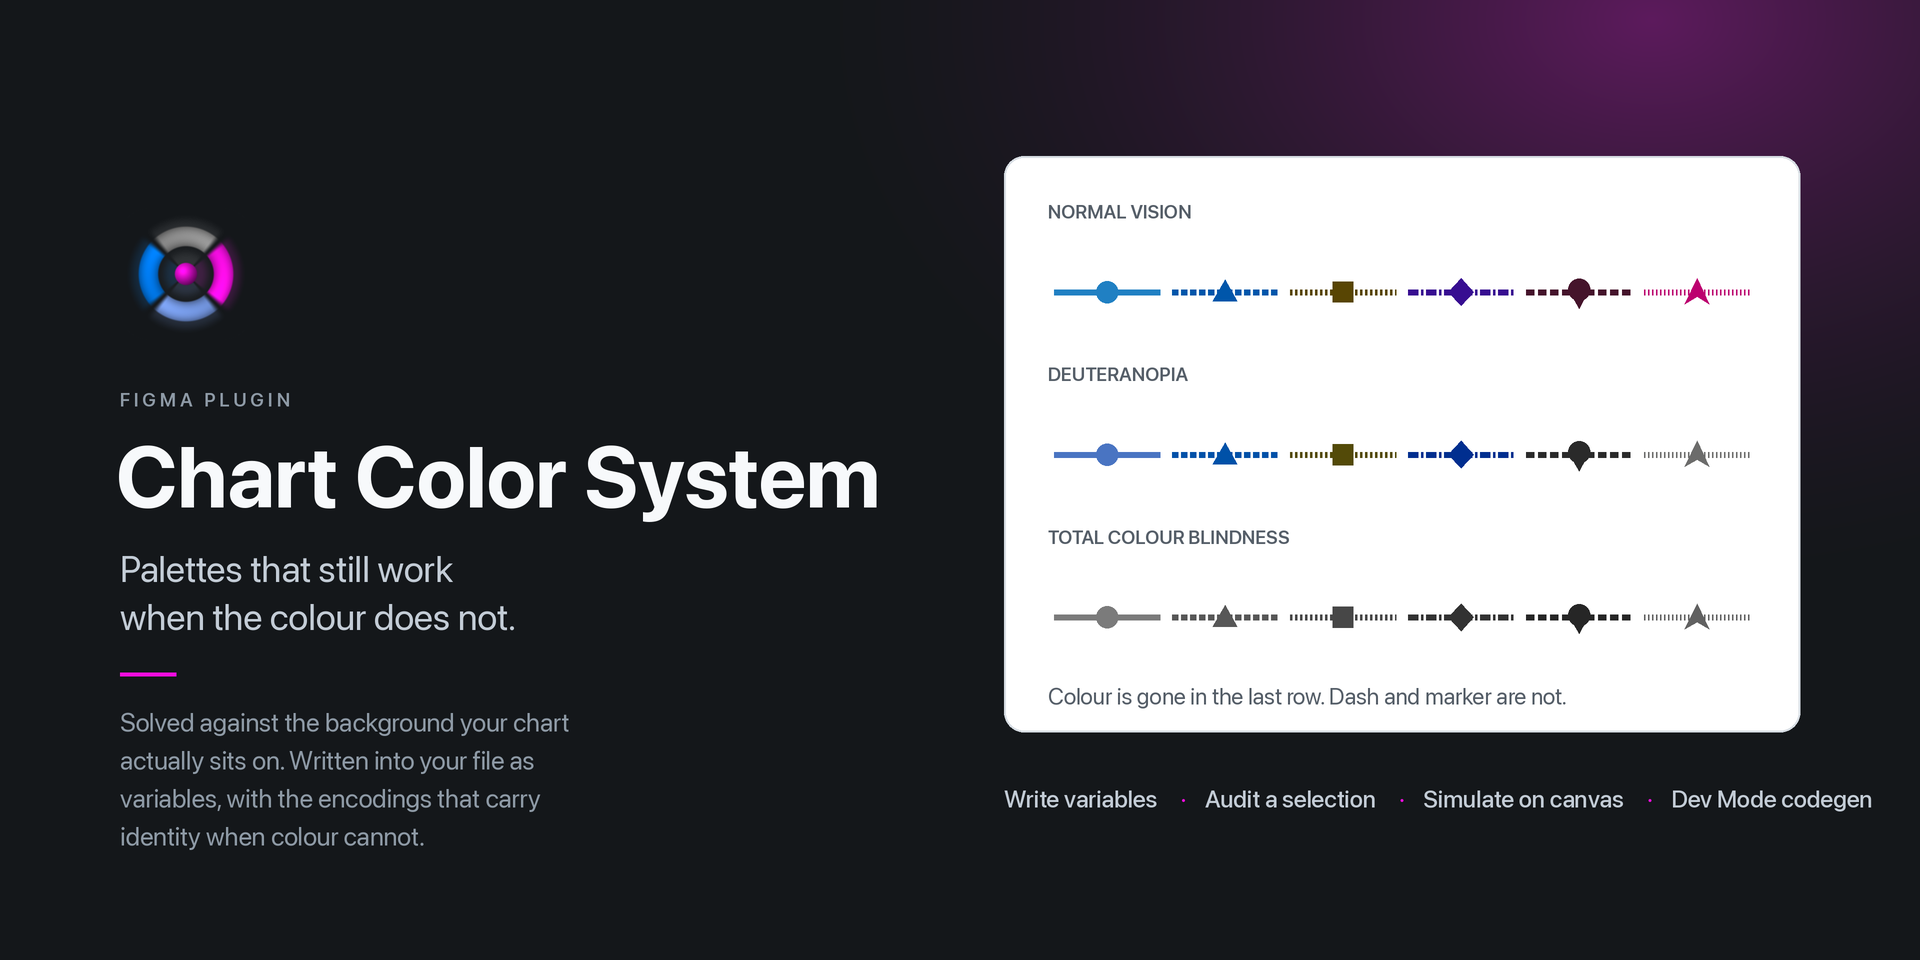
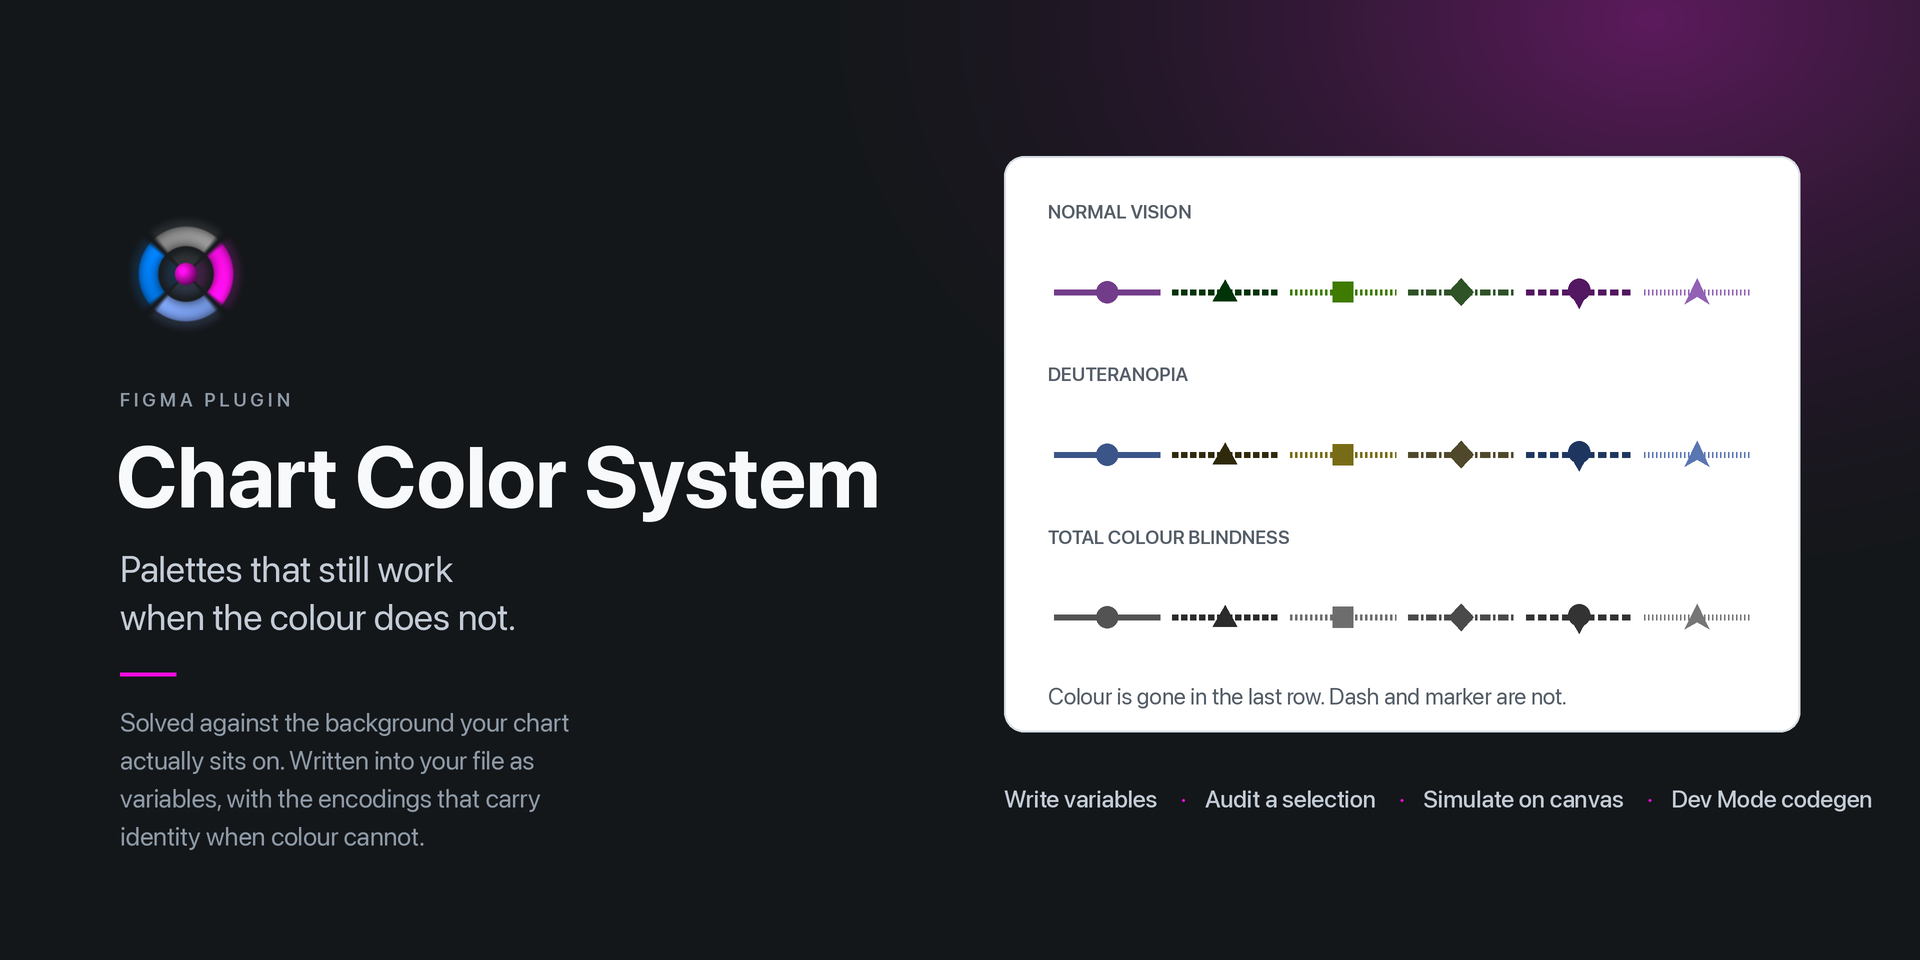
test(engine): freeze the solver's output so drift is loud
The determinism fix is subtle enough to undo by accident - a stray Math.pow,
an unquantised record - and nothing else in the suite would have failed. The
golden file is every posture x every N x two backgrounds with the verdict, the
relaxations and the palette: the exact values Node 24, Chrome 152 and
JavaScriptCore were verified to agree on byte for byte. Regenerated only by
`node scripts/freeze-palette-sweep.mjs`, and only as part of a deliberate
PALETTE_VERSION bump.

It cannot prove cross-engine agreement by itself, since vitest runs one
engine, and the test says so rather than implying more than it checks.

The cover art had the old engine's hexes baked into render-cover.py, so it was
advertising a palette the engine no longer produces. Regenerated from the
values read out of the running application; its own audit still passes and the
closest greyscale pair is now 1.12:1, so the cover's claim still holds.

Measured what the fix cost, rather than assuming it was free. Against Chrome
before the change: 54 of 64 configurations keep their verdict, 6 improve, 4
regress - a different local optimum, not a systematic loss. Every one of those
ten is at N >= 7. Nothing at or below the safe cap of 6 changed verdict, which
is the entire range the builder recommends.

diff --git a/src/charts/__tests__/paletteGolden.test.ts b/src/charts/__tests__/paletteGolden.test.ts
@@ -1,0 +1,73 @@
+/**
+ * The solver's output, frozen.
+ *
+ * Every posture x every N x two backgrounds, with the verdict, the relaxations
+ * and the palette. Its real job is to make drift loud: the solver used to
+ * return a different answer per JavaScript engine
+ * (docs/spikes/engine-divergence.md), and the arithmetic that fixed it is
+ * subtle enough that someone could undo it without noticing - a stray
+ * Math.pow, an unquantised record - and nothing else in the suite would fail.
+ *
+ * This file is generated by `node scripts/freeze-palette-sweep.mjs`, and it
+ * should only ever be regenerated as part of a deliberate PALETTE_VERSION
+ * bump. If it fails at any other time, the solver moved when it should not
+ * have.
+ *
+ * It cannot prove cross-engine agreement on its own - vitest runs one engine.
+ * What it proves is that THIS engine still produces the values that all three
+ * of Node 24, Chrome 152 and JavaScriptCore were verified to agree on.
+ */
+import { describe, expect, it } from "vitest";
+import { readFileSync } from "node:fs";
+import { join } from "node:path";
+import { seedTokens } from "@/test/seedTokens";
+seedTokens();
+import { solveCategorical, auditPalette, fromCss, POSTURE } from "@/charts/index";
+import { PALETTE_VERSION } from "@/charts/version";
+
+const GOLDEN = join(__dirname, "__golden__", "palette-sweep.csv");
+
+function sweep(): string {
+  const out: string[] = [];
+  for (const posture of Object.keys(POSTURE) as Array<keyof typeof POSTURE>) {
+    for (let n = 1; n <= POSTURE[posture].maxCategorical; n++) {
+      for (const bgHex of ["#ffffff", "#0b0e14"]) {
+        const bg = fromCss(bgHex);
+        const r = solveCategorical({
+          n, posture: posture as never, background: bg, grid: fromCss("#e5e7eb"), locks: [],
+        });
+        const a = auditPalette(r.palette, bg);
+        out.push(
+          [posture, n, bgHex, a.overall, r.relaxations.join("+") || "-",
+            r.palette.map((c) => c.hex).join("")].join(",")
+        );
+      }
+    }
+  }
+  return out.join("\n") + "\n";
+}
+
+describe("frozen solver output", () => {
+  it("still matches the values three engines were verified to agree on", () => {
+    const golden = readFileSync(GOLDEN, "utf8");
+    const actual = sweep();
+    if (actual !== golden) {
+      const a = actual.split("\n");
+      const g = golden.split("\n");
+      const first = a.findIndex((l, i) => l !== g[i]);
+      throw new Error(
+        `Solver output moved at line ${first + 1}.\n` +
+          `  golden: ${g[first]}\n  actual: ${a[first]}\n` +
+          `If this is a deliberate change, bump PALETTE_VERSION (currently ${PALETTE_VERSION}) ` +
+          `and run: node scripts/freeze-palette-sweep.mjs`
+      );
+    }
+    expect(actual).toBe(golden);
+  });
+
+  it("covers every configuration the builder can reach", () => {
+    const lines = readFileSync(GOLDEN, "utf8").trim().split("\n");
+    const expected = Object.values(POSTURE).reduce((s, p) => s + p.maxCategorical * 2, 0);
+    expect(lines).toHaveLength(expected);
+  });
+});

diff --git a/figma/scripts/render-cover.py b/figma/scripts/render-cover.py
@@ -30,11 +30,14 @@ CARD_EDGE = (0xD8, 0xDE, 0xE4)
 
 FONT = "/System/Library/Fonts/SFNS.ttf"
 
-# The engine's output for n=6 on #ffffff, and its own simulations of it.
+# The engine's output for n=6 on #ffffff, and its own simulations of it, read
+# out of the running application. Regenerate these whenever PALETTE_VERSION
+# changes - they were stale for exactly as long as it took to notice that the
+# determinism fix had moved every palette. Current at 0.8.0.
 ROWS = [
-    ("Normal vision", ["#2080c3", "#0056aa", "#584503", "#370d91", "#45142b", "#bc006f"]),
-    ("Deuteranopia", ["#4974c2", "#0051a8", "#534a08", "#002e8f", "#2a2a2a", "#6c6c6b"]),
-    ("Total colour blindness", ["#7b7b7b", "#575757", "#474747", "#323232", "#262626", "#616161"]),
+    ("Normal vision", ["#733c8a", "#003307", "#3e7b00", "#2f5227", "#541761", "#9261b5"]),
+    ("Deuteranopia", ["#3b5588", "#2f290b", "#786b16", "#4f482a", "#1e365f", "#5a76b3"]),
+    ("Total colour blindness", ["#535353", "#2b2b2b", "#6d6d6d", "#4a4a4a", "#333333", "#767676"]),
 ]
 DASHES = [None, [6, 3], [2, 3], [10, 3, 2, 3], [8, 4], [1, 3]]
 SHAPES = ["circle", "triangle", "rect", "diamond", "pin", "arrow"]
